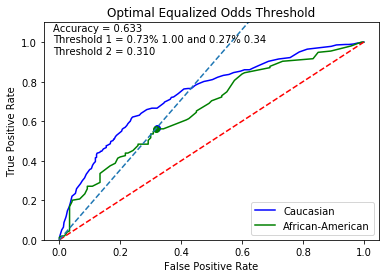
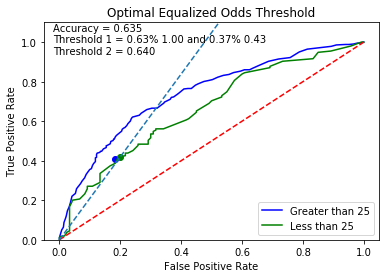
fikset legend på plots

diff --git a/report/Report.tex b/report/Report.tex
@@ -835,7 +835,7 @@
 			\centering
 			\includegraphics[width=0.9\linewidth]{"imgs/Equalized Odds Correctied_age"}
 		\end{subfigure}
-		\caption{\textbf{Left:} An illustration of the line (dashed blue line) which is used to sample the best equalized odds threshold. Equalized odds entails that the TPR and FPR rates are equal. When mixing the threshold of 1 with the threshold of the blue point, a predictor which satisfies equalized odds can be found. As such, it is possible to make the false and true positive rates approximately equal. It is also clear that equalized odds and equal opportunity bias corrections methods choose almost the same threshold.  \textbf{Right:} These illustrations show the result of the predictor which satisfies equalized odds for age. Hence, the blue point is moved onto the green point and thereby ensures that the TPR and FPR are approximately equal. The constructed binary classifier will yield an accuracy of $ 0.633 $, when equalized odds is ensured. The threshold for the protected group older than 25 is, $ T_{\text{Greater\_than\_25}} = 0.310 $. As for the group under 25, the predictor has a randomized threshold, $ T_{\text{Less\_than\_25}} $. The threshold assumes the value $\underline t_{\text{Less\_than\_25}} = 1 $  with a probability $ \underline p_{\text{Less\_than\_25}}= 0.73 $ and the value $ \bar t_{\text{Less\_than\_25}} = 0.34 $ with the probability $\bar p_{\text{Less\_than\_25}} = 0.27 $.}
+		\caption{\textbf{Left:} An illustration of the line (dashed blue line) which is used to sample the best equalized odds threshold. Equalized odds entails that the TPR and FPR rates are equal. When mixing the threshold of 1 with the threshold of the blue point, a predictor which satisfies equalized odds can be found. As such, it is possible to make the false and true positive rates approximately equal. It is also clear that equalized odds and equal opportunity bias corrections methods choose almost the same threshold.  \textbf{Right:} These illustrations show the result of the predictor which satisfies equalized odds for age. Hence, the blue point is moved onto the green point and thereby ensures that the TPR and FPR are approximately equal. The constructed binary classifier will yield an accuracy of $ 0.635 $, when equalized odds is ensured. The threshold for the protected group older than 25 is, $ T_{\text{Greater\_than\_25}} = 0.640 $. As for the group under 25, the predictor has a randomized threshold, $ T_{\text{Less\_than\_25}} $. The threshold assumes the value $\underline t_{\text{Less\_than\_25}} = 1 $  with a probability $ \underline p_{\text{Less\_than\_25}}= 0.63 $ and the value $ \bar t_{\text{Less\_than\_25}} = 0.43 $ with the probability $\bar p_{\text{Less\_than\_25}} = 0.37 $.}
 		\label{fig:equalizedOdds}
 	\end{figure}
 	
